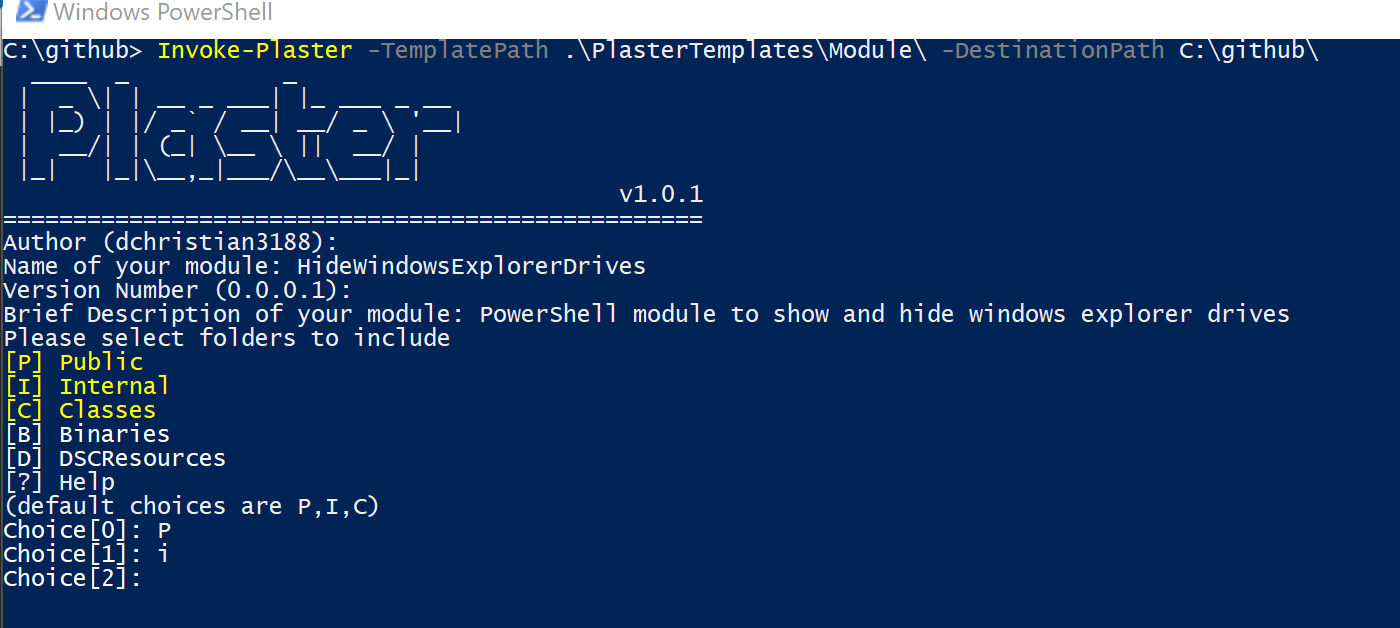
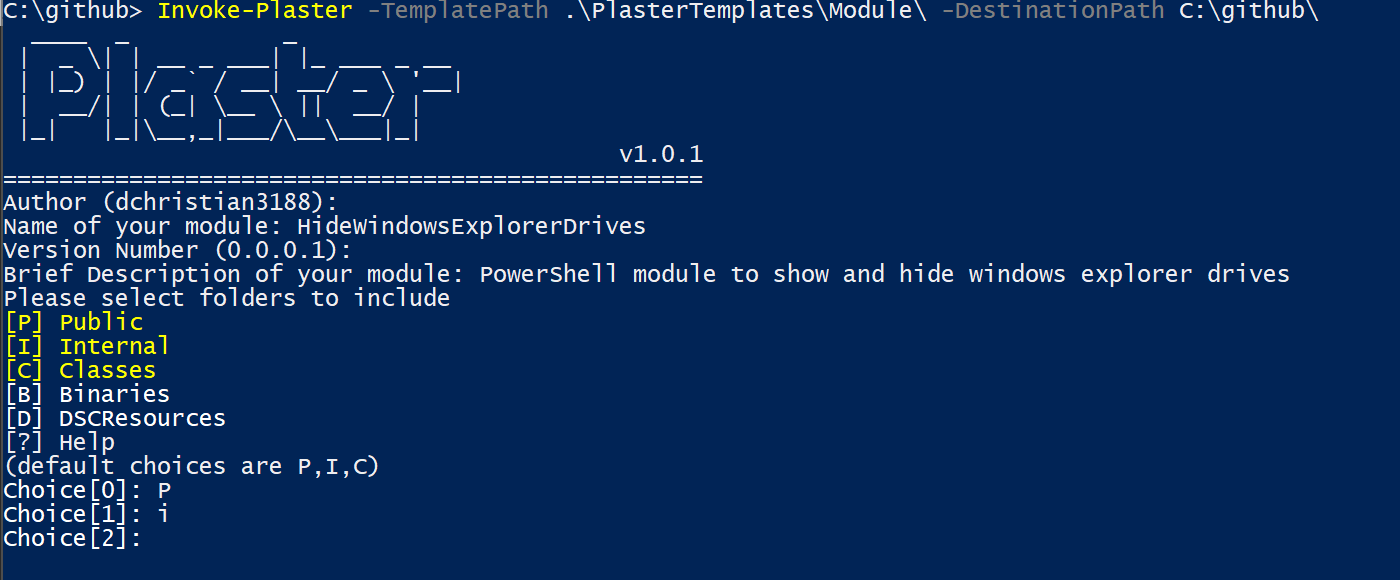
Updated Tools post

Changed region(s): [[0.0, 0.0, 1.0, 0.9621]]

diff --git a/_drafts/Module Tools - Starting Off.md b/_drafts/Module Tools - Starting Off.md
@@ -1,0 +1,59 @@
+---
+layout: post
+title: Module Tools - Starting Off
+---
+
+This is going to be the first in a series of posts related to working with module tools.
+In my [previous article](http://overpoweredshell.com//Tools-Module-Authors-Should-Leverage/), I talked about what tools module authors should leverage.
+Now I want to walk through using these tools and demonstrate how they all come together.
+To do this, we will be creating a new module called HideWindowsExplorerDrives.
+The purpose of this module is to make hiding and showing explorer drives easier.
+The code is beside the point.
+I want to focus more on how we can use some of these community projects to take our module to the next level.
+
+**The Good Stuff:**
+Setting up a new module project using my [Plater Template](https://github.com/dchristian3188/PlasterTemplates)
+
+<!-- more -->
+
+Let's be honest, at this point Plaster Module templates are like... opinions, everyone has one
+I will be covering mine today, not because I think its better than anyone elses, but because it works for me.
+That's the whole point of a Plaster.
+Customize it to fit your needs.
+Over the past couple of months, I have been maintaining [this template.](https://github.com/dchristian3188/PlasterTemplates/tree/master/Module)
+Realistically,  I still don't think it's finished.
+I feel a module template is a very dynamic thing.
+After every project, I go back and see if there's anything I can add.
+
+If you're new to Plaster, I highly recommended reading [this article first.](http://overpoweredshell.com//Working-with-Plaster/)
+
+We'll start by invoking the template.
+The first few prompts are pretty standard.
+There's a prompt for the author, module name, version, and description.
+Next, we need to chose what folders the project will include.
+It has become standard practice to place all functions in their own PS1 files.
+These are typically further segregated by public and internal functions.
+Then at build time, some module compilation step occurs that combines them into the final PSM1 (We'll talk more about this in the Invoke-Build article).
+For the HideWindowsExplorerDrives project, I think we are only going to need Public and Internal folders.
+
+![_config.yml]({{ site.baseurl }}/images/ModuleTools/Plaster/creatingTheModule.png)
+
+Next, we need to choose what tools we will be adding support for.
+For this project, I wanted to include the following: Pester, Git, InvokeBuild, PSGraph, and PlatyPS.
+The template defaults to yes for all choices.
+
+![_config.yml]({{ site.baseurl }}/images/ModuleTools/Plaster/choosingTheTools.png)
+
+Now that Plaster knows what it's building, it's time to get to work.
+The first items that get created are the PSM1 and PSD1.
+Next is the folder selection we chose.
+Since Pester was included, we'll verify we have Pester installed and create a basic test file.
+We also selected to include Git support.
+This means our new project will have a .gitignore file as well as a ReadMe.
+The [InvokeBuild template file](https://github.com/dchristian3188/PlasterTemplates/blob/master/Module/default.build.ps1) is probably the most complex part of the whole Plaster Template.
+Depending on what options the user selected, we have to do a lot of different string manipulation to have a working build script.
+PSGraph will bring along the commandFlow.ps1 file.
+This file will create a graph and diagram how the different functions in your module call each other.
+Last but not least, PlatyPS is check and then a help folder is created.
+
+![_config.yml]({{ site.baseurl }}/images/ModuleTools/Plaster/PlasterOutput.png)
